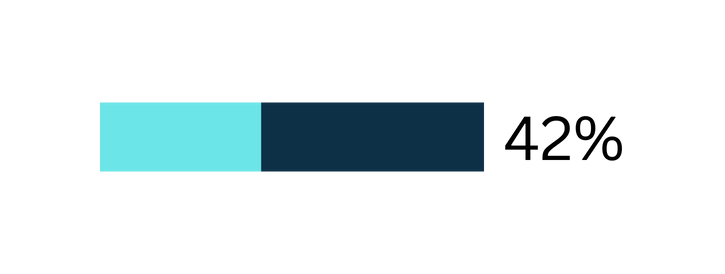
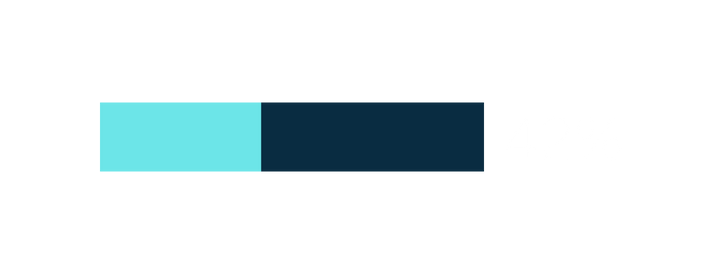
updating infographics and styling

Changed region(s): [[0.6979, 0.4088, 0.88, 0.5839]]

diff --git a/client/src/components/About/index.js b/client/src/components/About/index.js
@@ -9,18 +9,33 @@ function About(){
     return (
         <div id={'about'} className='about-container'>
             <h2 className='about-title'>About</h2>
-            <img src={people} className='people-icon'></img>
+            <div className='about-image-container'>
+                <img src={people} className='people-icon'></img>
+            </div>
+            
             <h3 className='about-text-title'>1 in 10 Adults 45 and Older Are affected by Subjective Cognitive Decline (SCD)</h3>
             <h4></h4>
+
             <p><span className='scd-text'>Subjective Cognitive Decline</span> is characterized by self-reported memory problems that are getting worse over the past year.</p>
-            <img src={percentage} className='percentage-icon'></img>
-            <h3 className='about-text-title'>41% of Adults with SCD Have Given Up Daily Activities</h3>
+            <div className='about-image-container'>
+                <img src={percentage} className='percentage-icon'></img>
+            </div>
             
-            <img src={percentage2} className='percentage-icon2'></img>
+            <h3 className='about-text-title'>41% of Adults with SCD Have Given Up Daily Activities</h3>
+            <div className='about-image-container'>
+                <img src={percentage2} className='percentage-icon2'></img>
+            </div>
+            
             <h3 className='about-text-title'>42% of Adults with SCD Have Discussed Symptoms With a Doctor</h3>
-            <img src={lessThanHalf} className='lessthanhalf-icon'></img>
+            <div className='about-image-container'>
+                <img src={lessThanHalf} className='lessthanhalf-icon'></img>
+            </div>
+            
             <h3 className='about-text-title'>Less Than Half of Adults with Dementia Have Been Diagnosed</h3>
-            <img src={thirtyfive} className='thirtyfive-icon'></img>
+            <div className='about-image-container'>
+                <img src={thirtyfive} className='thirtyfive-icon'></img>
+            </div>
+            
             <h3 className='about-text-title'>Yet Only 35% Know They Have the Disease</h3>
         </div>
     )

diff --git a/client/src/components/Contact/index.js b/client/src/components/Contact/index.js
@@ -53,10 +53,22 @@ function Contact() {
             <h2>Contact</h2>
             <p>hello@reallygreat.com</p>
         
-            <Button variant="primary" onClick={handleShow}>Send a Message</Button>
+            <Button 
+                style={{
+                    backgroundColor: 'black',
+                    color: 'white',
+                    borderColor: 'white'
+                }}
+                variant="primary" 
+                onClick={handleShow}>Send a Message
+            </Button>
             <Modal show={show} onHide={handleClose}>
                 <Modal.Header closeButton>
                     <Modal.Title>Contact Form</Modal.Title>
+                    <button className='contact-close-btn' variant="secondary" onClick={handleClose}>
+                        <div className='contact-line1'></div>
+                        <div className='contact-line2'></div>
+                    </button>
                 </Modal.Header>
                 <Modal.Body>
                     <div>
@@ -107,13 +119,17 @@ function Contact() {
                                 rows={3} 
                             />
                         </Form.Group>
-                        <Button type="submit" variant="primary" >{status}</Button>
+                        <Button 
+                            style={{
+                                backgroundColor: 'black',
+                                borderColor: 'white'
+
+                            }}
+                            type="submit" 
+                            variant="primary" >{status}
+                        </Button>
                     </Form>
                 </Modal.Body>
-                <Modal.Footer>
-                    <Button variant="secondary" onClick={handleClose}>Close</Button>
-                    
-                </Modal.Footer>
             </Modal>
         </div>
     )

diff --git a/client/src/index.css b/client/src/index.css
@@ -65,7 +65,7 @@ code {
   background-color: transparent;
 }
 
-.menu-line1, .menu-line2, .menu-line3 {
+.menu-line1, .menu-line2, .menu-line3, .contact-line1, .contact-line2 {
   width: 35px;
   height: 2px;
   background-color: white;
@@ -125,7 +125,7 @@ code {
   margin-top: 25px;
   margin-bottom: 45px;
   margin-top: 45px;
-  
+  font-size: 20px;
 }
 
 .navigation-links:hover {
@@ -222,12 +222,18 @@ a:active {
   padding: 100px;
 }
 
+.about-image-container {
+  display: flex;
+  justify-content: center;
+}
+
 .about-title {
+  
   
 }
 
 .about-text-title {
-  
+  text-align:center;
 }
 
 .scd-text {
@@ -235,11 +241,39 @@ a:active {
   font-weight: bold;
 }
 
+/* Contact Styling */
+
 .contact-container {
   padding: 100px;
-  
   color: white;
 }
+
+.contact-close-btn {
+  padding: 10px;
+  border-radius: 50%;
+  margin-left: 325px;
+}
+
+.contact-close-btn:hover {
+  background-color: white;
+}
+
+.contact-line1 {
+  transform: translate(0, 6px) rotate(-45deg);
+}
+
+.contact-line2 {
+  transform: translate(0, -6px) rotate(45deg);
+}
+
+/*
+.contact-lines-close {
+  background-color: black;
+}
+*/
+
+
+/* Contact Styling Ends */
 
 /* About Styling */ 
 .people-icon {
